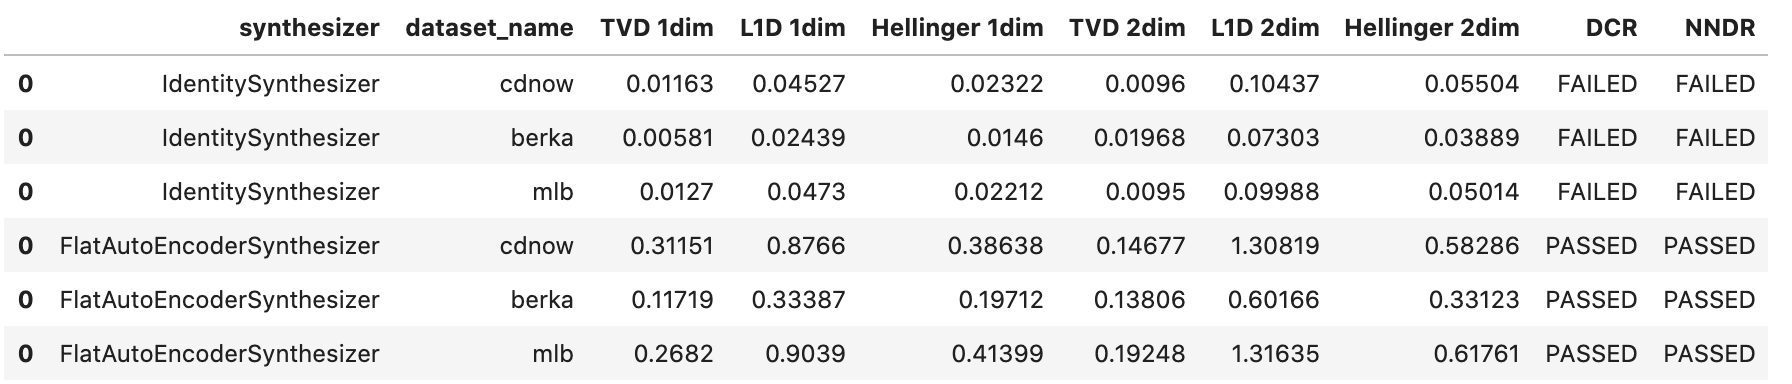
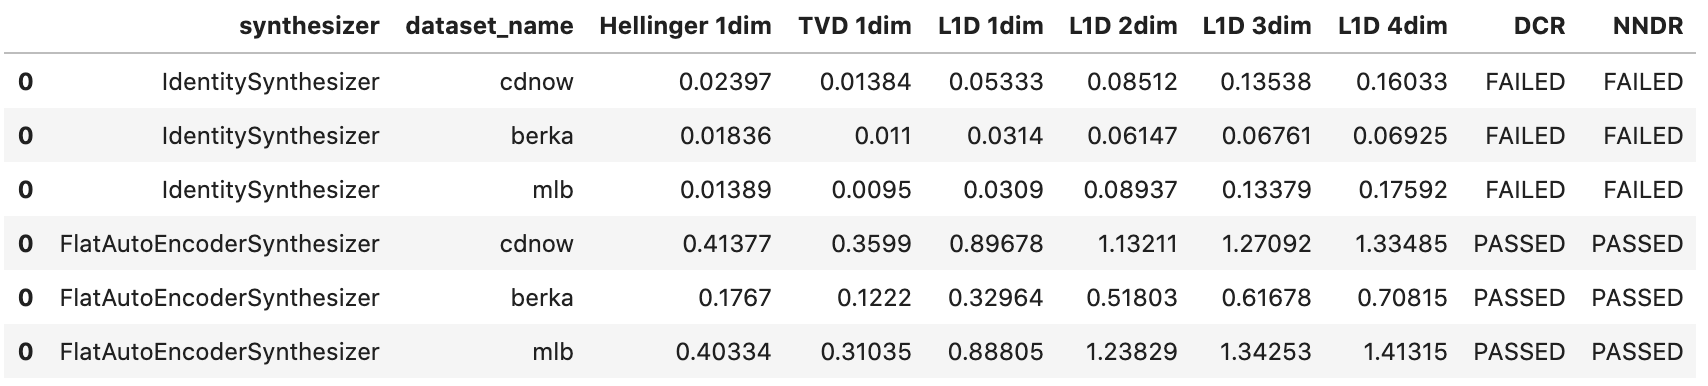
add 3dim and 4dim metrics

diff --git a/virtualdatalab/virtualdatalab/metrics.py b/virtualdatalab/virtualdatalab/metrics.py
@@ -461,10 +461,11 @@ def _calculate_dcr_nndr(tgt_data: DataFrame,
 
 def _calculate_statistical_distances(tgt_data:DataFrame,
                                      syn_data:DataFrame,
-                                     type: str, # univariate | bivariate
-                                     number_of_bins:int = 10):
+                                     type: str, # 1dim | 2dmin | 3dmin | 4dmin
+                                     number_of_bins:int = 10,
+                                     max_combinations:int = 100):
 
-    assert type in ['univariate', 'bivariate'], "type not recognized"
+    assert type in ['1dim', '2dim', '3dim', '4dim'], "type not recognized"
     # check if data is in expected format
     assert sorted(tgt_data.columns) == sorted(syn_data.columns), "Target and Synthetic have different columns"
     column_dict = _generate_column_type_dictionary(tgt_data)
@@ -475,6 +476,8 @@ def _calculate_statistical_distances(tgt_data:DataFrame,
                                          syn_sample,
                                          column_dict,
                                          number_of_bins)
+    tgt_binned = tgt_binned.astype(str)
+    syn_binned = syn_binned.astype(str)
 
     def calc_shares(df_binned, label):
         shares = df_binned.value_counts().reset_index()
@@ -482,27 +485,63 @@ def _calculate_statistical_distances(tgt_data:DataFrame,
         shares[label] = shares[label] / shares[label].sum()
         return shares
 
+    if type == '1dim':
+        cross = pd.DataFrame({'col_1': tgt_data.columns.to_list()})
+        cross['col_2'] = 'all'
+        cross['col_3'] = 'all'
+        cross['col_4'] = 'all'
+    elif type == '2dim':
+        cols_1 = pd.DataFrame({'col_1': tgt_data.columns.to_list(), 'key': 'xyz'})
+        cols_2 = pd.DataFrame({'col_2': tgt_data.columns.to_list(), 'key': 'xyz'})
+        cross = pd.merge(cols_1, cols_2, on='key').drop('key', axis=1)
+        cross['col_3'] = 'all'
+        cross['col_4'] = 'all'
+    elif type == '3dim':
+        cols_1 = pd.DataFrame({'col_1': tgt_data.columns.to_list(), 'key': 'xyz'})
+        cols_2 = pd.DataFrame({'col_2': tgt_data.columns.to_list(), 'key': 'xyz'})
+        cols_3 = pd.DataFrame({'col_3': tgt_data.columns.to_list(), 'key': 'xyz'})
+        cross = pd.merge(pd.merge(cols_1, cols_2, on='key'), cols_3, on='key').drop('key', axis=1)
+        cross['col_4'] = 'all'
+    elif type == '4dim':
+        cols_1 = pd.DataFrame({'col_1': tgt_data.columns.to_list(), 'key': 'xyz'})
+        cols_2 = pd.DataFrame({'col_2': tgt_data.columns.to_list(), 'key': 'xyz'})
+        cols_3 = pd.DataFrame({'col_3': tgt_data.columns.to_list(), 'key': 'xyz'})
+        cols_4 = pd.DataFrame({'col_4': tgt_data.columns.to_list(), 'key': 'xyz'})
+        cross = pd.merge(pd.merge(pd.merge(cols_1, cols_2, on='key'), cols_3, on='key'), cols_4, on='key').drop('key', axis=1)
+
+    cross = cross.sample(min(cross.shape[0], max_combinations))
+    tgt_binned['all'] = 'all'
+    syn_binned['all'] = 'all'
+
     result = list()
-    columns = column_dict.keys()
-    for col1 in columns:
-        for col2 in columns:
-            if (type=='univariate' and col1 == col2) or (type=='bivariate' and col1 < col2):
-                tgt_values = tgt_binned[col1].astype(str) + "|" + tgt_binned[col2].astype(str)
-                syn_values = syn_binned[col1].astype(str) + "|" + syn_binned[col2].astype(str)
-                shares = pd.merge(calc_shares(tgt_values, 'tgt'),
-                                  calc_shares(syn_values, 'syn'),
-                                  how='left')
-                shares['syn'] = shares['syn'].fillna(0)
-                diff = np.abs(shares['tgt'] - shares['syn'])
-                hell = np.sqrt(np.sum((np.sqrt(shares['tgt']) - np.sqrt(shares['syn'])) ** 2)) / np.sqrt(2)
-                out = pd.DataFrame({'col1': [col1],
-                                    'col2': [col2],
-                                    'type': type,
-                                    'tvd': np.max(diff),
-                                    'l1d': np.sum(diff),
-                                    'l2d': np.sqrt(np.sum(diff ** 2)),
-                                    'hellinger': hell})
-                result.append(out)
+    for i in range(cross.shape[0]):
+        col_1 = list(cross.col_1)[i]
+        col_2 = list(cross.col_2)[i]
+        col_3 = list(cross.col_3)[i]
+        col_4 = list(cross.col_4)[i]
+        col_label = col_1 + '|' + col_2 + '|' + col_3 + '|' + col_4
+        tgt_values = tgt_binned[col_1] + '|' + \
+                     tgt_binned[col_2] + '|' + \
+                     tgt_binned[col_3] + '|' + \
+                     tgt_binned[col_4]
+        syn_values = syn_binned[col_1] + '|' + \
+                     syn_binned[col_2] + '|' + \
+                     syn_binned[col_3] + '|' + \
+                     syn_binned[col_4]
+        shares = pd.merge(calc_shares(tgt_values, 'tgt'),
+                          calc_shares(syn_values, 'syn'),
+                          how='left')
+        shares['syn'] = shares['syn'].fillna(0)
+        diff = np.abs(shares['tgt'] - shares['syn'])
+        hell = np.sqrt(np.sum((np.sqrt(shares['tgt']) - np.sqrt(shares['syn'])) ** 2)) / np.sqrt(2)
+        out = pd.DataFrame({'label': [col_label],
+                            'type': type,
+                            'tvd': np.max(diff),
+                            'l1d': np.sum(diff),
+                            'l2d': np.sqrt(np.sum(diff ** 2)),
+                            'hellinger': hell})
+
+        result.append(out)
 
     return pd.concat(result)
 
@@ -528,6 +567,7 @@ def _calculate_privacy_tests(tgt_data: DataFrame,
     smoothing_factor = 1e-8
     tgt_data_p, syn_data_p = _prepare_data_for_privacy_metrics(flat_table_target, flat_table_syn,
                                                                column_dict, smoothing_factor)
+
     checks, privacy_tests = _calculate_dcr_nndr(tgt_data_p, syn_data_p, column_dict, smoothing_factor)
     return checks
 
@@ -550,15 +590,17 @@ def compare(tgt_data:DataFrame,
     metrics_dict = {}
 
     if 'statistical-distances' in metrics_to_return:
-        univariate = _calculate_statistical_distances(tgt_data, syn_data, 'univariate')
-        bivariate = _calculate_statistical_distances(tgt_data, syn_data, 'bivariate')
+        stat_1dim = _calculate_statistical_distances(tgt_data, syn_data, '1dim')
+        stat_2dim = _calculate_statistical_distances(tgt_data, syn_data, '2dim')
+        stat_3dim = _calculate_statistical_distances(tgt_data, syn_data, '3dim')
+        stat_4dim = _calculate_statistical_distances(tgt_data, syn_data, '4dim')
         def agg(x): return np.round(np.mean(x), 5)
-        metrics_dict['TVD 1dim'] = agg(univariate['tvd'])
-        metrics_dict['L1D 1dim'] = agg(univariate['l1d'])
-        metrics_dict['Hellinger 1dim'] = agg(univariate['hellinger'])
-        metrics_dict['TVD 2dim'] = agg(bivariate['tvd'])
-        metrics_dict['L1D 2dim'] = agg(bivariate['l1d'])
-        metrics_dict['Hellinger 2dim'] = agg(bivariate['hellinger'])
+        metrics_dict['Hellinger 1dim'] = agg(stat_1dim['hellinger'])
+        metrics_dict['TVD 1dim'] = agg(stat_1dim['tvd'])
+        metrics_dict['L1D 1dim'] = agg(stat_1dim['l1d'])
+        metrics_dict['L1D 2dim'] = agg(stat_2dim['l1d'])
+        metrics_dict['L1D 3dim'] = agg(stat_3dim['l1d'])
+        metrics_dict['L1D 4dim'] = agg(stat_4dim['l1d'])
 
     if 'privacy-tests' in metrics_to_return:
         checks = _calculate_privacy_tests(tgt_data, syn_data)

diff --git a/virtualdatalab/virtualdatalab/benchmark.py b/virtualdatalab/virtualdatalab/benchmark.py
@@ -27,19 +27,13 @@ def benchmark(syntheizers_classes:List[Type],
     """
     One function to rule them all.
 
-
     Train , generate and analyze specific datasets for a given set of synthesizer classes.
-
-    Synthetic dataset
-
-    Custom datasets must be passed through encoded_datasets, otherwise CDNOW dataset is used
 
     :param syntheizers_classes: list of instance of synthesizer classes
     :param datasets: dict keys: dataset name dict values : pandas dataframe in common data format
     :param verbose: verbose benchmarking
 
-    :returns: table of results or averaged
-
+    :returns: table of results
     """
     if len(datasets) == 0:
         # put both
@@ -121,5 +115,6 @@ def benchmark(syntheizers_classes:List[Type],
 
 
     df_results_all = pd.concat(results_list)
+    df_results_all = df_results_all.sort_values('dataset_name').set_index('dataset_name')
 
     return df_results_all

diff --git a/README.md b/README.md
@@ -97,11 +97,11 @@ The helper method `target_data_manipulation.prepare_common_data_format` can read
 
 These metrics quantify the difference between the empirical distributions of the target compared to the synthetic data. Numeric variables are being discretized by binning these into 10 equally-spaced buckets. Categorical variables are considering the top 10 values, and lump together all remaining values into a single bucket.
 
-For each column (=univariate/1dim), resp each combination of columns (=bivariate/2dim) a number of metrics is being calculated, and then being averaged across all combinations:
+For each column, resp each combination of 2, 3 or 4 columns a number of metrics is being calculated, and then being averaged across a random subset of max. 100 of such combinations:
 * [Total Variation Distance](https://en.wikipedia.org/wiki/Total_variation_distance_of_probability_measures) (TVD) = maximum deviation in relative frequency
-* L1-Distance (L1D) of empirical distributions = sum over all deviations in relative frequency
 * [Hellinger Distance](https://en.wikipedia.org/wiki/Hellinger_distance) 
-  
+* [L1-Distance](https://en.wikipedia.org/wiki/Taxicab_geometry) (L1D) of empirical distributions = sum over all deviations in relative frequency
+
 ### Privacy
 
 ### Individual-Distance Tests
